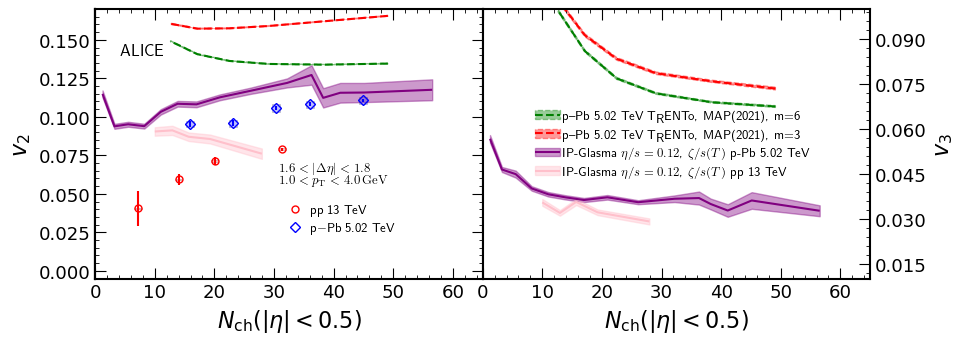
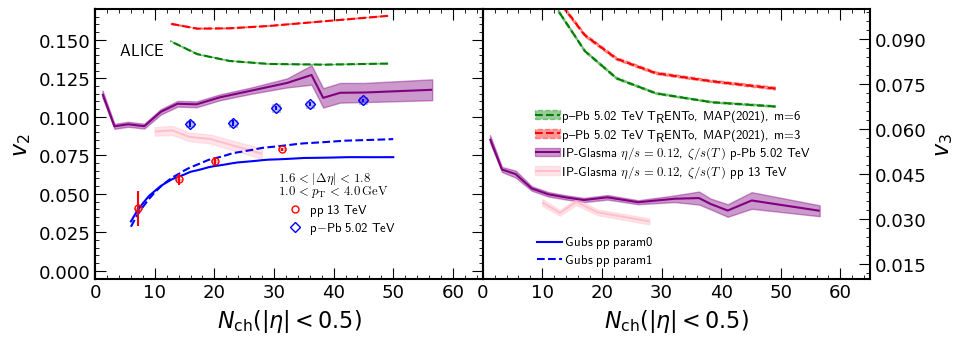
Add GubsHydro

diff --git a/Fig6_vn_allSystems_comp.py b/Fig6_vn_allSystems_comp.py
@@ -97,8 +97,8 @@ plot = JPyPlotRatio.JPyPlotRatio(panels=(nrow,ncol),
 	systPatchWidth=0.02,
 	panelLabelLoc=(0.85,0.85),panelLabelSize=16,panelLabelAlign="left",
 	#legendPanel={0:0,1:0,2:0},
-	legendPanel={0:0,1:1},
-	legendLoc={0:(0.63,0.22),1:(0.49,0.5),2:(0.75,0.12)},
+	legendPanel={0:0,1:1,2:1},
+	legendLoc={0:(0.63,0.22),1:(0.49,0.5),2:(0.29,0.1)},
 	legendSize=9,xlabel=xtitle[0],ylabel=ytitle,ylabelRight=ytitle[1]);
 
 plot.EnableLatex(True);
@@ -125,6 +125,10 @@ for i,n in enumerate(range(2,4)):
 		(('pp13TeV','v{}'.format(n),'1_4'),"IP-Glasma $\\eta/s=0.12$, $\\zeta/s(T)$ pp 13 TeV","pink")]:
 		d = schenkeDict[s];
 		plot.Add(i,(d["mult"],d["y"],d["yerr"]),plotType="theory",linecolor=color,color=color,alpha=0.4,label=label,labelOrder=2,labelLegendId=1);
+
+for i,p in enumerate([0,1]):
+	d = np.loadtxt("data/GubsHyd/gubshyd_param{}.dat".format(p));
+	plot.Add(0,(d[:,0],d[:,1]),linestyle=["-","--"][i],color="blue",plotType="line",labelLegendId=2,label="Gubs pp param{}".format(p));
 
 plotMatrix = np.empty((nrow,ncol),dtype=int);
 
@@ -173,7 +177,7 @@ for i,s in enumerate(data):
 #plot.Ratio(plots["vn_pPb_v0a_14"], plots["vn_pPb_v0a"]);
 
 plot.GetPlot().text(0.15,0.75,"ALICE",fontsize=12);
-plot.GetPlot().text(0.31,0.38,"$1.6<|\Delta\eta|<1.8$\n$1.0<p_\\mathrm{T}<4.0\\,\\mathrm{GeV}$",fontsize=9);
+plot.GetPlot().text(0.31,0.35,"$1.6<|\Delta\eta|<1.8$\n$1.0<p_\\mathrm{T}<4.0\\,\\mathrm{GeV}$",fontsize=9);
 #plot.GetPlot().text(0.35,0.3,"$1 < p_\\mathrm{T} < 2.0 \\,\\mathrm{GeV}/c$",fontsize=8);
 #plot.GetPlot().text(0.65,0.3,"$1 < p_\\mathrm{T} < 4.0 \\,\\mathrm{GeV}/c$",fontsize=8);
 #plot.GetPlot().text(0.55,0.53,"$0.2 < p_\\mathrm{T} < 3.0 \\,\\mathrm{GeV}/c$",fontsize=8);
